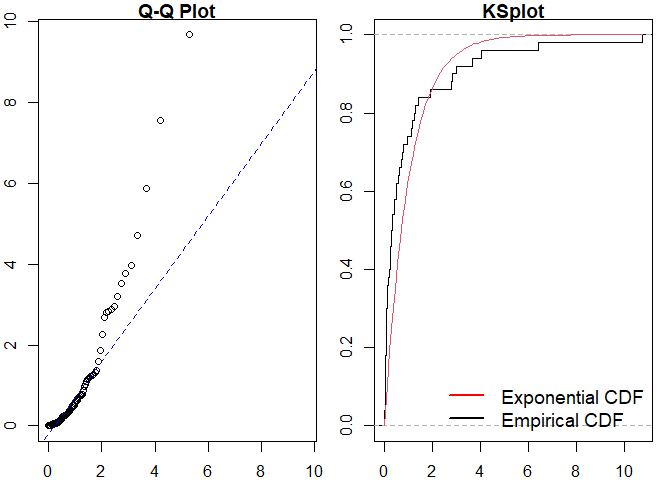
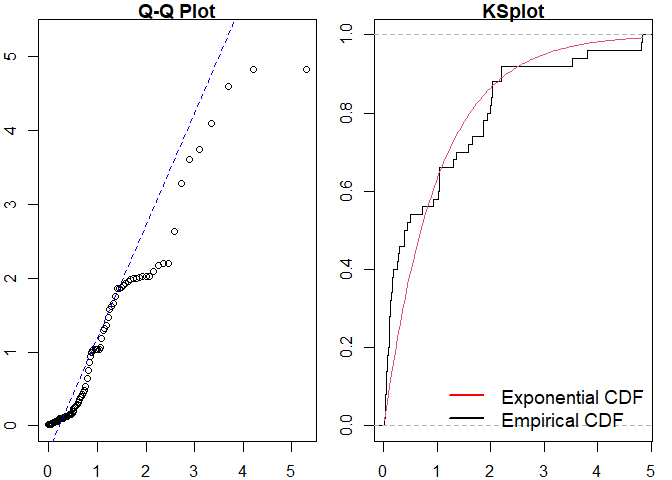
fix to mmhp plot and run ppdiag example

diff --git a/docs/index.html b/docs/index.html
@@ -117,32 +117,36 @@
 <span class="va">hp_obj</span> <span class="op">&lt;-</span> <span class="fu"><a href="reference/pp_hp.html">pp_hp</a></span><span class="op">(</span>lambda0 <span class="op">=</span> <span class="fl">0.2</span>, alpha <span class="op">=</span> <span class="fl">0.35</span>, beta <span class="op">=</span> <span class="fl">0.8</span><span class="op">)</span>
 <span class="va">sim_hp</span> <span class="op">&lt;-</span> <span class="fu"><a href="reference/pp_simulate.html">pp_simulate</a></span><span class="op">(</span><span class="va">hp_obj</span>, end <span class="op">=</span> <span class="fl">200</span><span class="op">)</span>
 <span class="va">sim_hp</span>
-<span class="co">#&gt;  [1]   1.000335   7.362964  13.222860  22.691274  22.931674  23.812001</span>
-<span class="co">#&gt;  [7]  30.111743  30.911255  31.785699  34.043541  35.810878  36.946860</span>
-<span class="co">#&gt; [13]  37.859046  38.632845  39.744749  47.255919  50.786608  51.030776</span>
-<span class="co">#&gt; [19]  51.620849  57.298307  79.279840  86.717237 127.258388 127.288075</span>
-<span class="co">#&gt; [25] 141.386804 142.747274 143.066975 143.302322 143.742617 143.819971</span>
-<span class="co">#&gt; [31] 145.807490 147.940873 155.743269 158.730903 168.932510 169.400273</span>
-<span class="co">#&gt; [37] 176.868282 178.666560 182.035931 185.496845 187.281237 187.841325</span>
-<span class="co">#&gt; [43] 189.068486 189.794997 190.047020 190.205587 190.578139 191.979409</span>
-<span class="co">#&gt; [49] 196.398136 199.215925</span></code></pre></div>
+<span class="co">#&gt;  [1]   4.812834   6.359553  18.592838  24.924398  27.477472  39.069081</span>
+<span class="co">#&gt;  [7]  45.447185  48.877789  49.251243  51.583534  52.030700  55.323267</span>
+<span class="co">#&gt; [13]  56.374593  61.075780  61.133379  69.444170  70.426176  78.372408</span>
+<span class="co">#&gt; [19]  80.372094  80.475431  85.501265  88.972648  90.084763  91.974217</span>
+<span class="co">#&gt; [25]  93.779371  93.814669  94.082367  94.257954  94.622148 104.444724</span>
+<span class="co">#&gt; [31] 105.122596 105.259238 105.424769 105.666571 105.938356 106.483103</span>
+<span class="co">#&gt; [37] 106.600113 106.787423 107.352824 108.720862 108.803059 110.341614</span>
+<span class="co">#&gt; [43] 113.346552 116.741642 117.752418 118.790844 118.848347 133.140741</span>
+<span class="co">#&gt; [49] 138.741287 139.056061 139.531597 140.027394 140.594697 143.330178</span>
+<span class="co">#&gt; [55] 158.451919 158.661755 159.933741 167.286287 181.247567 184.667738</span>
+<span class="co">#&gt; [61] 190.190180 190.476203 190.843110 192.188077</span></code></pre></div>
 <p>We can readily evaluate the fit of a homogeneous Poisson process to this data.</p>
 <div class="sourceCode" id="cb3"><pre class="downlit sourceCode r">
 <code class="sourceCode R"><span class="va">est_hpp</span> <span class="op">&lt;-</span> <span class="fu"><a href="reference/fithpp.html">fithpp</a></span><span class="op">(</span><span class="va">sim_hp</span><span class="op">)</span>
 <span class="va">est_hpp</span>
 <span class="co">#&gt; $lambda</span>
-<span class="co">#&gt; [1] 0.250984</span>
+<span class="co">#&gt; [1] 0.3330071</span>
 <span class="co">#&gt; </span>
 <span class="co">#&gt; $events</span>
-<span class="co">#&gt;  [1]   1.000335   7.362964  13.222860  22.691274  22.931674  23.812001</span>
-<span class="co">#&gt;  [7]  30.111743  30.911255  31.785699  34.043541  35.810878  36.946860</span>
-<span class="co">#&gt; [13]  37.859046  38.632845  39.744749  47.255919  50.786608  51.030776</span>
-<span class="co">#&gt; [19]  51.620849  57.298307  79.279840  86.717237 127.258388 127.288075</span>
-<span class="co">#&gt; [25] 141.386804 142.747274 143.066975 143.302322 143.742617 143.819971</span>
-<span class="co">#&gt; [31] 145.807490 147.940873 155.743269 158.730903 168.932510 169.400273</span>
-<span class="co">#&gt; [37] 176.868282 178.666560 182.035931 185.496845 187.281237 187.841325</span>
-<span class="co">#&gt; [43] 189.068486 189.794997 190.047020 190.205587 190.578139 191.979409</span>
-<span class="co">#&gt; [49] 196.398136 199.215925</span>
+<span class="co">#&gt;  [1]   4.812834   6.359553  18.592838  24.924398  27.477472  39.069081</span>
+<span class="co">#&gt;  [7]  45.447185  48.877789  49.251243  51.583534  52.030700  55.323267</span>
+<span class="co">#&gt; [13]  56.374593  61.075780  61.133379  69.444170  70.426176  78.372408</span>
+<span class="co">#&gt; [19]  80.372094  80.475431  85.501265  88.972648  90.084763  91.974217</span>
+<span class="co">#&gt; [25]  93.779371  93.814669  94.082367  94.257954  94.622148 104.444724</span>
+<span class="co">#&gt; [31] 105.122596 105.259238 105.424769 105.666571 105.938356 106.483103</span>
+<span class="co">#&gt; [37] 106.600113 106.787423 107.352824 108.720862 108.803059 110.341614</span>
+<span class="co">#&gt; [43] 113.346552 116.741642 117.752418 118.790844 118.848347 133.140741</span>
+<span class="co">#&gt; [49] 138.741287 139.056061 139.531597 140.027394 140.594697 143.330178</span>
+<span class="co">#&gt; [55] 158.451919 158.661755 159.933741 167.286287 181.247567 184.667738</span>
+<span class="co">#&gt; [61] 190.190180 190.476203 190.843110 192.188077</span>
 <span class="co">#&gt; </span>
 <span class="co">#&gt; attr(,"class")</span>
 <span class="co">#&gt; [1] "hpp"</span>
@@ -151,24 +155,24 @@
 <p><img src="reference/figures/README-fit_hpp-1.png" width="75%"></p>
 <div class="sourceCode" id="cb4"><pre class="sourceCode R"><code class="sourceCode r"><span id="cb4-1"><a href="#cb4-1" aria-hidden="true" tabindex="-1"></a><span class="co">#&gt; </span></span>
 <span id="cb4-2"><a href="#cb4-2" aria-hidden="true" tabindex="-1"></a><span class="co">#&gt; Raw residual: 0</span></span>
-<span id="cb4-3"><a href="#cb4-3" aria-hidden="true" tabindex="-1"></a><span class="co">#&gt; Pearson residual: 2.842171e-14</span></span>
+<span id="cb4-3"><a href="#cb4-3" aria-hidden="true" tabindex="-1"></a><span class="co">#&gt; Pearson residual: 0</span></span>
 <span id="cb4-4"><a href="#cb4-4" aria-hidden="true" tabindex="-1"></a><span class="co">#&gt; </span></span>
 <span id="cb4-5"><a href="#cb4-5" aria-hidden="true" tabindex="-1"></a><span class="co">#&gt;  One-sample Kolmogorov-Smirnov test</span></span>
 <span id="cb4-6"><a href="#cb4-6" aria-hidden="true" tabindex="-1"></a><span class="co">#&gt; </span></span>
 <span id="cb4-7"><a href="#cb4-7" aria-hidden="true" tabindex="-1"></a><span class="co">#&gt; data:  r</span></span>
-<span id="cb4-8"><a href="#cb4-8" aria-hidden="true" tabindex="-1"></a><span class="co">#&gt; D = 0.20349, p-value = 0.02719</span></span>
+<span id="cb4-8"><a href="#cb4-8" aria-hidden="true" tabindex="-1"></a><span class="co">#&gt; D = 0.21848, p-value = 0.003664</span></span>
 <span id="cb4-9"><a href="#cb4-9" aria-hidden="true" tabindex="-1"></a><span class="co">#&gt; alternative hypothesis: two-sided</span></span></code></pre></div>
 <div class="sourceCode" id="cb5"><pre class="downlit sourceCode r">
 <code class="sourceCode R"><span class="va">hp_est</span> <span class="op">&lt;-</span> <span class="fu"><a href="reference/fithp.html">fithp</a></span><span class="op">(</span>events <span class="op">=</span> <span class="va">sim_hp</span><span class="op">)</span>
 <span class="fu"><a href="reference/pp_diag.html">pp_diag</a></span><span class="op">(</span><span class="va">hp_est</span>, events <span class="op">=</span> <span class="va">sim_hp</span><span class="op">)</span></code></pre></div>
 <p><img src="reference/figures/README-fit_hp-1.png" width="75%"></p>
-<div class="sourceCode" id="cb6"><pre class="sourceCode R"><code class="sourceCode r"><span id="cb6-1"><a href="#cb6-1" aria-hidden="true" tabindex="-1"></a><span class="co">#&gt; Raw residual: 0.002281391</span></span>
-<span id="cb6-2"><a href="#cb6-2" aria-hidden="true" tabindex="-1"></a><span class="co">#&gt; Pearson residual: 0.02870257</span></span>
+<div class="sourceCode" id="cb6"><pre class="sourceCode R"><code class="sourceCode r"><span id="cb6-1"><a href="#cb6-1" aria-hidden="true" tabindex="-1"></a><span class="co">#&gt; Raw residual: 2.249111e-05</span></span>
+<span id="cb6-2"><a href="#cb6-2" aria-hidden="true" tabindex="-1"></a><span class="co">#&gt; Pearson residual: -0.2604292</span></span>
 <span id="cb6-3"><a href="#cb6-3" aria-hidden="true" tabindex="-1"></a><span class="co">#&gt; </span></span>
 <span id="cb6-4"><a href="#cb6-4" aria-hidden="true" tabindex="-1"></a><span class="co">#&gt;  One-sample Kolmogorov-Smirnov test</span></span>
 <span id="cb6-5"><a href="#cb6-5" aria-hidden="true" tabindex="-1"></a><span class="co">#&gt; </span></span>
 <span id="cb6-6"><a href="#cb6-6" aria-hidden="true" tabindex="-1"></a><span class="co">#&gt; data:  r</span></span>
-<span id="cb6-7"><a href="#cb6-7" aria-hidden="true" tabindex="-1"></a><span class="co">#&gt; D = 0.058087, p-value = 0.9923</span></span>
+<span id="cb6-7"><a href="#cb6-7" aria-hidden="true" tabindex="-1"></a><span class="co">#&gt; D = 0.05335, p-value = 0.9888</span></span>
 <span id="cb6-8"><a href="#cb6-8" aria-hidden="true" tabindex="-1"></a><span class="co">#&gt; alternative hypothesis: two-sided</span></span></code></pre></div>
 <div id="mmhp-example" class="section level2">
 <h2 class="hasAnchor">
@@ -217,37 +221,37 @@
 <p><img src="reference/figures/README-fit_hpp_to_mmhp-1.png" width="75%"></p>
 <div class="sourceCode" id="cb9"><pre class="sourceCode R"><code class="sourceCode r"><span id="cb9-1"><a href="#cb9-1" aria-hidden="true" tabindex="-1"></a><span class="co">#&gt; </span></span>
 <span id="cb9-2"><a href="#cb9-2" aria-hidden="true" tabindex="-1"></a><span class="co">#&gt; Raw residual: -1</span></span>
-<span id="cb9-3"><a href="#cb9-3" aria-hidden="true" tabindex="-1"></a><span class="co">#&gt; Pearson residual: -1.319881</span></span>
+<span id="cb9-3"><a href="#cb9-3" aria-hidden="true" tabindex="-1"></a><span class="co">#&gt; Pearson residual: -1.620493</span></span>
 <span id="cb9-4"><a href="#cb9-4" aria-hidden="true" tabindex="-1"></a><span class="co">#&gt; </span></span>
 <span id="cb9-5"><a href="#cb9-5" aria-hidden="true" tabindex="-1"></a><span class="co">#&gt;  One-sample Kolmogorov-Smirnov test</span></span>
 <span id="cb9-6"><a href="#cb9-6" aria-hidden="true" tabindex="-1"></a><span class="co">#&gt; </span></span>
 <span id="cb9-7"><a href="#cb9-7" aria-hidden="true" tabindex="-1"></a><span class="co">#&gt; data:  r</span></span>
-<span id="cb9-8"><a href="#cb9-8" aria-hidden="true" tabindex="-1"></a><span class="co">#&gt; D = 0.25761, p-value = 0.002052</span></span>
+<span id="cb9-8"><a href="#cb9-8" aria-hidden="true" tabindex="-1"></a><span class="co">#&gt; D = 0.23966, p-value = 0.005185</span></span>
 <span id="cb9-9"><a href="#cb9-9" aria-hidden="true" tabindex="-1"></a><span class="co">#&gt; alternative hypothesis: two-sided</span></span></code></pre></div>
 <p>Similarly for a Hawkes process.</p>
 <div class="sourceCode" id="cb10"><pre class="downlit sourceCode r">
 <code class="sourceCode R"><span class="va">est_hp</span> <span class="op">&lt;-</span> <span class="fu"><a href="reference/fithp.html">fithp</a></span><span class="op">(</span>events <span class="op">=</span> <span class="va">mmhp_events</span><span class="op">$</span><span class="va">events</span><span class="op">)</span>
 <span class="fu"><a href="reference/pp_diag.html">pp_diag</a></span><span class="op">(</span><span class="va">est_hp</span>,<span class="va">mmhp_events</span><span class="op">$</span><span class="va">events</span><span class="op">)</span></code></pre></div>
 <p><img src="reference/figures/README-fit_hp_to_mmhp-1.png" width="75%"></p>
-<div class="sourceCode" id="cb11"><pre class="sourceCode R"><code class="sourceCode r"><span id="cb11-1"><a href="#cb11-1" aria-hidden="true" tabindex="-1"></a><span class="co">#&gt; Raw residual: -0.3648369</span></span>
-<span id="cb11-2"><a href="#cb11-2" aria-hidden="true" tabindex="-1"></a><span class="co">#&gt; Pearson residual: -1.327958</span></span>
+<div class="sourceCode" id="cb11"><pre class="sourceCode R"><code class="sourceCode r"><span id="cb11-1"><a href="#cb11-1" aria-hidden="true" tabindex="-1"></a><span class="co">#&gt; Raw residual: -0.6673263</span></span>
+<span id="cb11-2"><a href="#cb11-2" aria-hidden="true" tabindex="-1"></a><span class="co">#&gt; Pearson residual: -1.781394</span></span>
 <span id="cb11-3"><a href="#cb11-3" aria-hidden="true" tabindex="-1"></a><span class="co">#&gt; </span></span>
 <span id="cb11-4"><a href="#cb11-4" aria-hidden="true" tabindex="-1"></a><span class="co">#&gt;  One-sample Kolmogorov-Smirnov test</span></span>
 <span id="cb11-5"><a href="#cb11-5" aria-hidden="true" tabindex="-1"></a><span class="co">#&gt; </span></span>
 <span id="cb11-6"><a href="#cb11-6" aria-hidden="true" tabindex="-1"></a><span class="co">#&gt; data:  r</span></span>
-<span id="cb11-7"><a href="#cb11-7" aria-hidden="true" tabindex="-1"></a><span class="co">#&gt; D = 0.098845, p-value = 0.6761</span></span>
+<span id="cb11-7"><a href="#cb11-7" aria-hidden="true" tabindex="-1"></a><span class="co">#&gt; D = 0.095957, p-value = 0.7105</span></span>
 <span id="cb11-8"><a href="#cb11-8" aria-hidden="true" tabindex="-1"></a><span class="co">#&gt; alternative hypothesis: two-sided</span></span></code></pre></div>
 <p>We can then compare to the true point process model.</p>
 <div class="sourceCode" id="cb12"><pre class="downlit sourceCode r">
 <code class="sourceCode R"><span class="fu"><a href="reference/pp_diag.html">pp_diag</a></span><span class="op">(</span><span class="va">mmhp_obj</span>, <span class="va">mmhp_events</span><span class="op">$</span><span class="va">events</span><span class="op">)</span></code></pre></div>
 <p><img src="reference/figures/README-fit_mmhp-1.png" width="75%"></p>
-<div class="sourceCode" id="cb13"><pre class="sourceCode R"><code class="sourceCode r"><span id="cb13-1"><a href="#cb13-1" aria-hidden="true" tabindex="-1"></a><span class="co">#&gt; Raw residual: 12.79318</span></span>
-<span id="cb13-2"><a href="#cb13-2" aria-hidden="true" tabindex="-1"></a><span class="co">#&gt; Pearson residual: 14.1414</span></span>
+<div class="sourceCode" id="cb13"><pre class="sourceCode R"><code class="sourceCode r"><span id="cb13-1"><a href="#cb13-1" aria-hidden="true" tabindex="-1"></a><span class="co">#&gt; Raw residual: 13.94491</span></span>
+<span id="cb13-2"><a href="#cb13-2" aria-hidden="true" tabindex="-1"></a><span class="co">#&gt; Pearson residual: 22.13206</span></span>
 <span id="cb13-3"><a href="#cb13-3" aria-hidden="true" tabindex="-1"></a><span class="co">#&gt; </span></span>
 <span id="cb13-4"><a href="#cb13-4" aria-hidden="true" tabindex="-1"></a><span class="co">#&gt;  One-sample Kolmogorov-Smirnov test</span></span>
 <span id="cb13-5"><a href="#cb13-5" aria-hidden="true" tabindex="-1"></a><span class="co">#&gt; </span></span>
 <span id="cb13-6"><a href="#cb13-6" aria-hidden="true" tabindex="-1"></a><span class="co">#&gt; data:  r</span></span>
-<span id="cb13-7"><a href="#cb13-7" aria-hidden="true" tabindex="-1"></a><span class="co">#&gt; D = 0.13084, p-value = 0.3297</span></span>
+<span id="cb13-7"><a href="#cb13-7" aria-hidden="true" tabindex="-1"></a><span class="co">#&gt; D = 0.11593, p-value = 0.4771</span></span>
 <span id="cb13-8"><a href="#cb13-8" aria-hidden="true" tabindex="-1"></a><span class="co">#&gt; alternative hypothesis: two-sided</span></span></code></pre></div>
 </div>
 </div>

diff --git a/docs/reference/pp_diag.html b/docs/reference/pp_diag.html
@@ -167,21 +167,19 @@ raw residual and pearson residual.</p>
  and raw residuals.</p>
 
     <h2 class="hasAnchor" id="examples"><a class="anchor" href="#examples"></a>Examples</h2>
-    <pre class="examples"><div class='input'><span class='co'># \donttest{</span>
-<span class='va'>hpp_obj</span> <span class='op'>&lt;-</span> <span class='fu'><a href='pp_hpp.html'>pp_hpp</a></span><span class='op'>(</span>lambda <span class='op'>=</span> <span class='fl'>1</span><span class='op'>)</span>
-<span class='va'>events</span> <span class='op'>&lt;-</span> <span class='fu'><a href='pp_simulate.html'>pp_simulate</a></span><span class='op'>(</span><span class='va'>hpp_obj</span>, end<span class='op'>=</span><span class='fl'>10</span><span class='op'>)</span>
+    <pre class="examples"><div class='input'><span class='va'>hpp_obj</span> <span class='op'>&lt;-</span> <span class='fu'><a href='pp_hpp.html'>pp_hpp</a></span><span class='op'>(</span>lambda <span class='op'>=</span> <span class='fl'>1</span><span class='op'>)</span>
+<span class='va'>events</span> <span class='op'>&lt;-</span> <span class='fu'><a href='pp_simulate.html'>pp_simulate</a></span><span class='op'>(</span><span class='va'>hpp_obj</span>, end<span class='op'>=</span><span class='fl'>50</span><span class='op'>)</span>
 <span class='fu'>pp_diag</span><span class='op'>(</span><span class='va'>hpp_obj</span>, <span class='va'>events</span><span class='op'>)</span>
 </div><div class='img'><img src='pp_diag-1.png' alt='' width='700' height='433' /></div><div class='output co'>#&gt; 
-#&gt; Raw residual: 0.7403183
-#&gt; Pearson residual: 0.7403183
+#&gt; Raw residual: -4.260702
+#&gt; Pearson residual: -4.260702
 #&gt; 
 #&gt; 	One-sample Kolmogorov-Smirnov test
 #&gt; 
 #&gt; data:  r
-#&gt; D = 0.33385, p-value = 0.2141
+#&gt; D = 0.12453, p-value = 0.4653
 #&gt; alternative hypothesis: two-sided
-#&gt; </div><div class='input'><span class='co'># }</span>
-</div></pre>
+#&gt; </div></pre>
   </div>
   <div class="col-md-3 hidden-xs hidden-sm" id="pkgdown-sidebar">
     <nav id="toc" data-toggle="toc" class="sticky-top">

diff --git a/docs/reference/pp_residual.html b/docs/reference/pp_residual.html
@@ -165,10 +165,10 @@ lambda1 <span class='op'>=</span> <span class='fl'>1.1</span>, alpha <span class
 <span class='va'>y</span> <span class='op'>&lt;-</span> <span class='fu'><a href='pp_simulate.html'>pp_simulate</a></span><span class='op'>(</span><span class='va'>x</span>, n <span class='op'>=</span> <span class='fl'>10</span><span class='op'>)</span>
 <span class='fu'>pp_residual</span><span class='op'>(</span><span class='va'>x</span>, events <span class='op'>=</span> <span class='va'>y</span><span class='op'>$</span><span class='va'>events</span><span class='op'>)</span>
 </div><div class='output co'>#&gt; $raw
-#&gt; [1] 2.021509
+#&gt; [1] 1.312827
 #&gt; 
 #&gt; $pearson
-#&gt; [1] 1.073895
+#&gt; [1] 0.6738123
 #&gt; </div></pre>
   </div>
   <div class="col-md-3 hidden-xs hidden-sm" id="pkgdown-sidebar">

diff --git a/README.md b/README.md
@@ -50,15 +50,17 @@ library(ppdiag)
 hp_obj <- pp_hp(lambda0 = 0.2, alpha = 0.35, beta = 0.8)
 sim_hp <- pp_simulate(hp_obj, end = 200)
 sim_hp
-#>  [1]   1.000335   7.362964  13.222860  22.691274  22.931674  23.812001
-#>  [7]  30.111743  30.911255  31.785699  34.043541  35.810878  36.946860
-#> [13]  37.859046  38.632845  39.744749  47.255919  50.786608  51.030776
-#> [19]  51.620849  57.298307  79.279840  86.717237 127.258388 127.288075
-#> [25] 141.386804 142.747274 143.066975 143.302322 143.742617 143.819971
-#> [31] 145.807490 147.940873 155.743269 158.730903 168.932510 169.400273
-#> [37] 176.868282 178.666560 182.035931 185.496845 187.281237 187.841325
-#> [43] 189.068486 189.794997 190.047020 190.205587 190.578139 191.979409
-#> [49] 196.398136 199.215925
+#>  [1]   4.812834   6.359553  18.592838  24.924398  27.477472  39.069081
+#>  [7]  45.447185  48.877789  49.251243  51.583534  52.030700  55.323267
+#> [13]  56.374593  61.075780  61.133379  69.444170  70.426176  78.372408
+#> [19]  80.372094  80.475431  85.501265  88.972648  90.084763  91.974217
+#> [25]  93.779371  93.814669  94.082367  94.257954  94.622148 104.444724
+#> [31] 105.122596 105.259238 105.424769 105.666571 105.938356 106.483103
+#> [37] 106.600113 106.787423 107.352824 108.720862 108.803059 110.341614
+#> [43] 113.346552 116.741642 117.752418 118.790844 118.848347 133.140741
+#> [49] 138.741287 139.056061 139.531597 140.027394 140.594697 143.330178
+#> [55] 158.451919 158.661755 159.933741 167.286287 181.247567 184.667738
+#> [61] 190.190180 190.476203 190.843110 192.188077
 ```
 
 We can readily evaluate the fit of a homogeneous Poisson process to this
@@ -68,18 +70,20 @@ data.
 est_hpp <- fithpp(sim_hp)
 est_hpp
 #> $lambda
-#> [1] 0.250984
+#> [1] 0.3330071
 #> 
 #> $events
-#>  [1]   1.000335   7.362964  13.222860  22.691274  22.931674  23.812001
-#>  [7]  30.111743  30.911255  31.785699  34.043541  35.810878  36.946860
-#> [13]  37.859046  38.632845  39.744749  47.255919  50.786608  51.030776
-#> [19]  51.620849  57.298307  79.279840  86.717237 127.258388 127.288075
-#> [25] 141.386804 142.747274 143.066975 143.302322 143.742617 143.819971
-#> [31] 145.807490 147.940873 155.743269 158.730903 168.932510 169.400273
-#> [37] 176.868282 178.666560 182.035931 185.496845 187.281237 187.841325
-#> [43] 189.068486 189.794997 190.047020 190.205587 190.578139 191.979409
-#> [49] 196.398136 199.215925
+#>  [1]   4.812834   6.359553  18.592838  24.924398  27.477472  39.069081
+#>  [7]  45.447185  48.877789  49.251243  51.583534  52.030700  55.323267
+#> [13]  56.374593  61.075780  61.133379  69.444170  70.426176  78.372408
+#> [19]  80.372094  80.475431  85.501265  88.972648  90.084763  91.974217
+#> [25]  93.779371  93.814669  94.082367  94.257954  94.622148 104.444724
+#> [31] 105.122596 105.259238 105.424769 105.666571 105.938356 106.483103
+#> [37] 106.600113 106.787423 107.352824 108.720862 108.803059 110.341614
+#> [43] 113.346552 116.741642 117.752418 118.790844 118.848347 133.140741
+#> [49] 138.741287 139.056061 139.531597 140.027394 140.594697 143.330178
+#> [55] 158.451919 158.661755 159.933741 167.286287 181.247567 184.667738
+#> [61] 190.190180 190.476203 190.843110 192.188077
 #> 
 #> attr(,"class")
 #> [1] "hpp"
@@ -91,12 +95,12 @@ pp_diag(est_hpp, events = sim_hp)
 
     #> 
     #> Raw residual: 0
-    #> Pearson residual: 2.842171e-14
+    #> Pearson residual: 0
     #> 
     #>  One-sample Kolmogorov-Smirnov test
     #> 
     #> data:  r
-    #> D = 0.20349, p-value = 0.02719
+    #> D = 0.21848, p-value = 0.003664
     #> alternative hypothesis: two-sided
 
 ``` r
@@ -106,13 +110,13 @@ pp_diag(hp_est, events = sim_hp)
 
 <img src="man/figures/README-fit_hp-1.png" width="75%" />
 
-    #> Raw residual: 0.002281391
-    #> Pearson residual: 0.02870257
+    #> Raw residual: 2.249111e-05
+    #> Pearson residual: -0.2604292
     #> 
     #>  One-sample Kolmogorov-Smirnov test
     #> 
     #> data:  r
-    #> D = 0.058087, p-value = 0.9923
+    #> D = 0.05335, p-value = 0.9888
     #> alternative hypothesis: two-sided
 
 ## MMHP Example
@@ -171,12 +175,12 @@ pp_diag(est_hpp,mmhp_events$events)
 
     #> 
     #> Raw residual: -1
-    #> Pearson residual: -1.319881
+    #> Pearson residual: -1.620493
     #> 
     #>  One-sample Kolmogorov-Smirnov test
     #> 
     #> data:  r
-    #> D = 0.25761, p-value = 0.002052
+    #> D = 0.23966, p-value = 0.005185
     #> alternative hypothesis: two-sided
 
 Similarly for a Hawkes process.
@@ -188,13 +192,13 @@ pp_diag(est_hp,mmhp_events$events)
 
 <img src="man/figures/README-fit_hp_to_mmhp-1.png" width="75%" />
 
-    #> Raw residual: -0.3648369
-    #> Pearson residual: -1.327958
+    #> Raw residual: -0.6673263
+    #> Pearson residual: -1.781394
     #> 
     #>  One-sample Kolmogorov-Smirnov test
     #> 
     #> data:  r
-    #> D = 0.098845, p-value = 0.6761
+    #> D = 0.095957, p-value = 0.7105
     #> alternative hypothesis: two-sided
 
 We can then compare to the true point process model.
@@ -205,13 +209,13 @@ pp_diag(mmhp_obj, mmhp_events$events)
 
 <img src="man/figures/README-fit_mmhp-1.png" width="75%" />
 
-    #> Raw residual: 12.79318
-    #> Pearson residual: 14.1414
+    #> Raw residual: 13.94491
+    #> Pearson residual: 22.13206
     #> 
     #>  One-sample Kolmogorov-Smirnov test
     #> 
     #> data:  r
-    #> D = 0.13084, p-value = 0.3297
+    #> D = 0.11593, p-value = 0.4771
     #> alternative hypothesis: two-sided
 
 # Getting help and contributing
